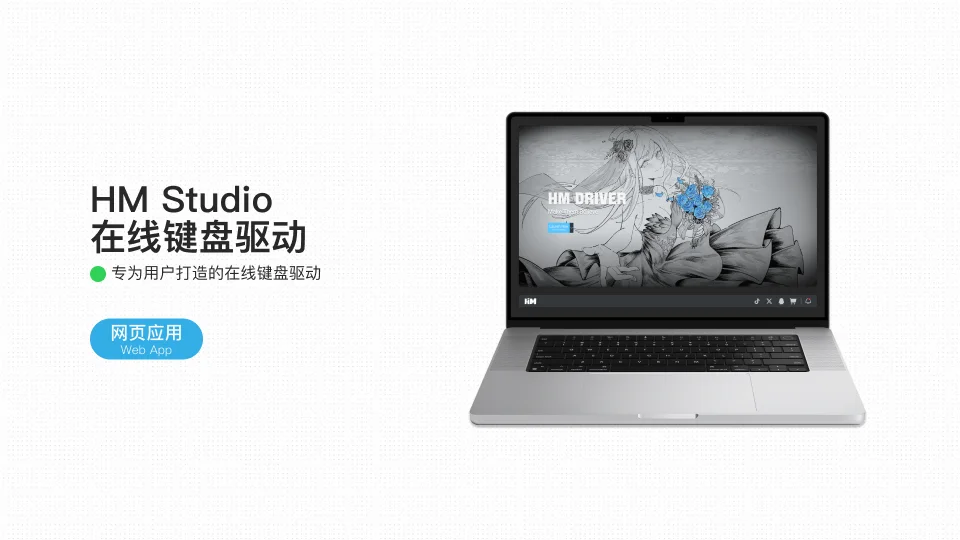
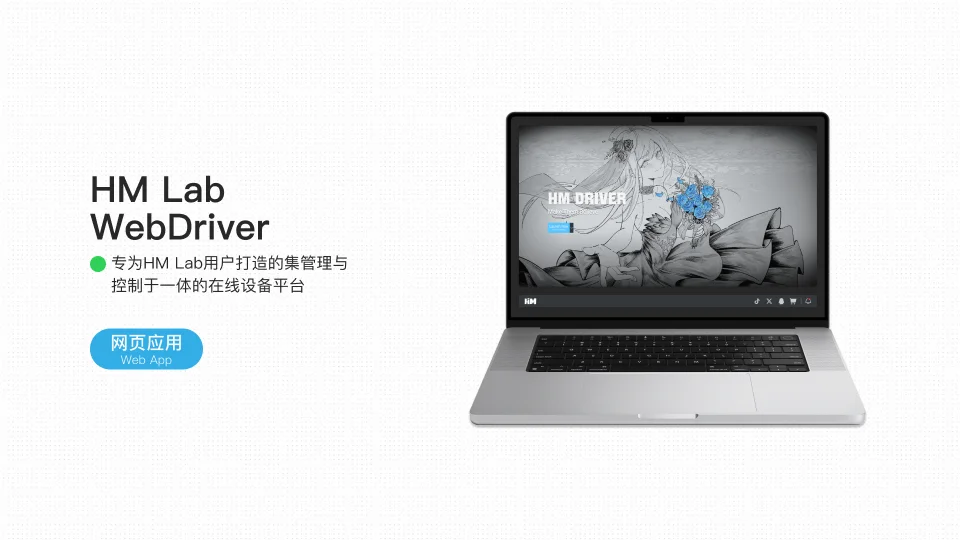
update

Changed region(s): [[0.0938, 0.3259, 0.375, 0.7111]]

diff --git a/index_en.html b/index_en.html
@@ -75,12 +75,13 @@
 
     <div class="portfolio-card">
       <div class="left-side">
-        <h1>HM Studio Keyboard Driver</h1>
-        <p>A user-centric online keyboard driver to Enhance User Experience</p>
+        <h1>HM Lab WebDriver</h1>
+        <p>A Web-based control platform designed to manage HM Lab hardware devices
+        </p>
         <a href="/pug/en.html?from=home"><button class="details-button">Read More</button></a>
       </div>
       <div class="right-side">
-        <img src="/doge/proj/hmdriver/res/hmwebdriver_homepage_mockup.webp" alt="project">
+        <img src="/doge/proj/hmwebdriver/res/hmwebdriver_homepage_mockup.webp" alt="project">
       </div>
     </div>
 

diff --git a/index.html b/index.html
@@ -77,12 +77,12 @@
 
     <div class="portfolio-card">
       <div class="left-side">
-        <h1>HM Studio驱动</h1>
-        <p>专为用户打造的在线和沐(HM Studio)键盘驱动</p>
+        <h1>HM Lab WebDriver</h1>
+        <p>专为HM Lab用户打造的集管理与控制于一体的在线设备平台</p>
         <a href="/pug/cn.html?from=home"><button class="details-button">项目详情</button></a>
       </div>
       <div class="right-side">
-        <img src="/doge/proj/hmdriver/res/hmwebdriver_homepage_mockup.webp" alt="project">
+        <img src="/doge/proj/hmwebdriver/res/hmwebdriver_homepage_mockup.webp" alt="project">
       </div>
     </div>
 

diff --git a/doge/proj_cn.html b/doge/proj_cn.html
@@ -41,9 +41,9 @@
       <div class="card">
         <img src="/doge/proj/hmwebdriver/res/hmwebdriver_cn.webp" alt="">
         <div class="overlay">
-          <h1>HM Studio在线驱动</h1>
-          <h2>专为用户打造的在线键盘驱动</h2>
-          <a href="/hmlab_"><button>查看详情</button></a>
+          <h1>HM Lab WebDriver</h1>
+          <h2>专为HM Lab用户打造的集管理与控制于一体的在线设备平台</h2>
+          <a href="/"><button>查看详情</button></a>
         </div>
         <main></main>
       </div>

diff --git a/doge/proj_en.html b/doge/proj_en.html
@@ -42,8 +42,8 @@
         <div class="card">
           <img src="/doge/proj/hmwebdriver/res/hmwebdriver_en.webp" alt="">
           <div class="overlay">
-            <h1>HM Studio Driver</h1>
-            <h2>A user-centric online keyboard driver</h2>
+            <h1>HM Lab WebDriver</h1>
+            <h2>A Web-based control platform designed to manage HM Lab hardware devices</h2>
             <a href="/hmlab"><button>Read More</button></a>
           </div>
         </div>
